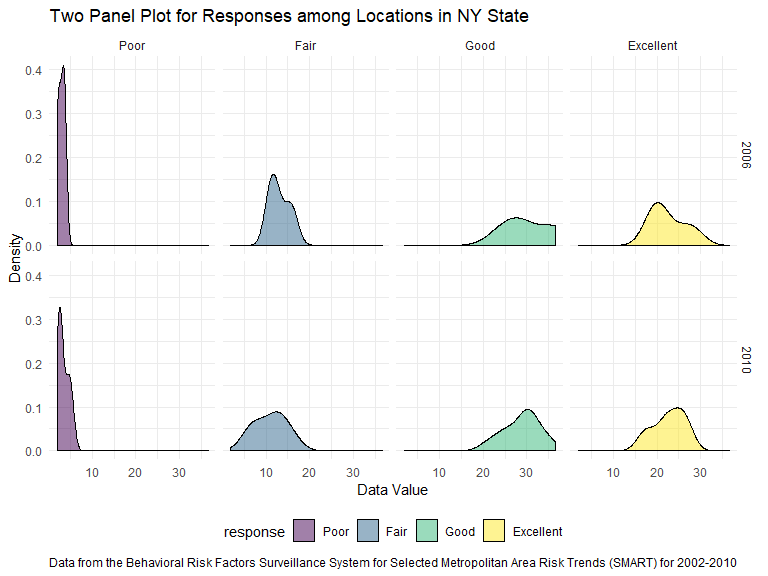
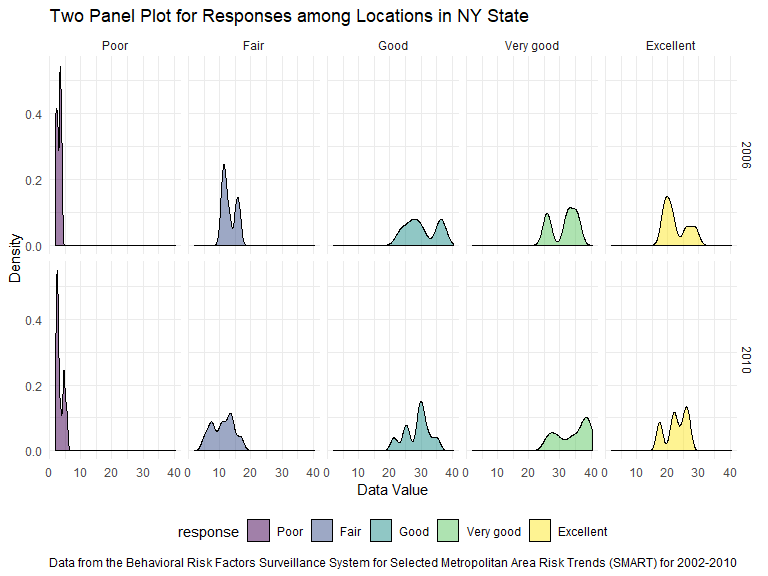
Changed a few things to be correct

diff --git a/p8105_hw3_jt3174.md b/p8105_hw3_jt3174.md
@@ -230,27 +230,27 @@ brfss_data = brfss_smart2010 %>%
   # keep only "Overall Health" topic
   filter(topic == "Overall Health") %>% 
   # include only responses from "Excellent" to "Poor"
-  filter(response == "Poor" | response == "Fair" | response == "Good" | response == "Very Good" | response == "Excellent") %>% 
+  filter(response == "Poor" | response == "Fair" | response == "Good" | response == "Very good" | response == "Excellent") %>% 
   # organize responses as a factor taking levels ordered from “Poor” to “Excellent”
   mutate(response = factor(response, levels = c("Poor", "Fair", "Good", "Very good", "Excellent")))
   
 brfss_data
 ```
 
-    ## # A tibble: 8,500 x 23
+    ## # A tibble: 10,625 x 23
     ##     year state county class topic question response sample_size data_value
     ##    <int> <chr> <chr>  <chr> <chr> <chr>    <fct>          <int>      <dbl>
     ##  1  2010 AL    Jeffe~ Heal~ Over~ How is ~ Excelle~          94       18.9
-    ##  2  2010 AL    Jeffe~ Heal~ Over~ How is ~ Good             208       33.1
-    ##  3  2010 AL    Jeffe~ Heal~ Over~ How is ~ Fair             107       12.5
-    ##  4  2010 AL    Jeffe~ Heal~ Over~ How is ~ Poor              45        5.5
-    ##  5  2010 AL    Mobil~ Heal~ Over~ How is ~ Excelle~          91       15.6
-    ##  6  2010 AL    Mobil~ Heal~ Over~ How is ~ Good             224       31.2
-    ##  7  2010 AL    Mobil~ Heal~ Over~ How is ~ Fair             120       15.5
-    ##  8  2010 AL    Mobil~ Heal~ Over~ How is ~ Poor              66        6.4
-    ##  9  2010 AL    Tusca~ Heal~ Over~ How is ~ Excelle~          58       20.8
-    ## 10  2010 AL    Tusca~ Heal~ Over~ How is ~ Good             171       33.8
-    ## # ... with 8,490 more rows, and 14 more variables:
+    ##  2  2010 AL    Jeffe~ Heal~ Over~ How is ~ Very go~         148       30  
+    ##  3  2010 AL    Jeffe~ Heal~ Over~ How is ~ Good             208       33.1
+    ##  4  2010 AL    Jeffe~ Heal~ Over~ How is ~ Fair             107       12.5
+    ##  5  2010 AL    Jeffe~ Heal~ Over~ How is ~ Poor              45        5.5
+    ##  6  2010 AL    Mobil~ Heal~ Over~ How is ~ Excelle~          91       15.6
+    ##  7  2010 AL    Mobil~ Heal~ Over~ How is ~ Very go~         177       31.3
+    ##  8  2010 AL    Mobil~ Heal~ Over~ How is ~ Good             224       31.2
+    ##  9  2010 AL    Mobil~ Heal~ Over~ How is ~ Fair             120       15.5
+    ## 10  2010 AL    Mobil~ Heal~ Over~ How is ~ Poor              66        6.4
+    ## # ... with 10,615 more rows, and 14 more variables:
     ## #   confidence_limit_low <dbl>, confidence_limit_high <dbl>,
     ## #   display_order <int>, data_value_unit <chr>, data_value_type <chr>,
     ## #   data_value_footnote_symbol <chr>, data_value_footnote <chr>,
@@ -393,7 +393,7 @@ two_panel_plot = brfss_data %>%
   # making a density plot for data_value and fill different color according to their different responses
   ggplot(aes(x = data_value, fill = response))+
   # set transparency
-  geom_density(alpha = 0.5) +
+  geom_density(alpha = 0.5， adjust = 0.5) +
   # create a two panel plot for responses among locations in NY State
   facet_grid(year ~ response) +
   # add title, labels for x- and y- labels and caption
